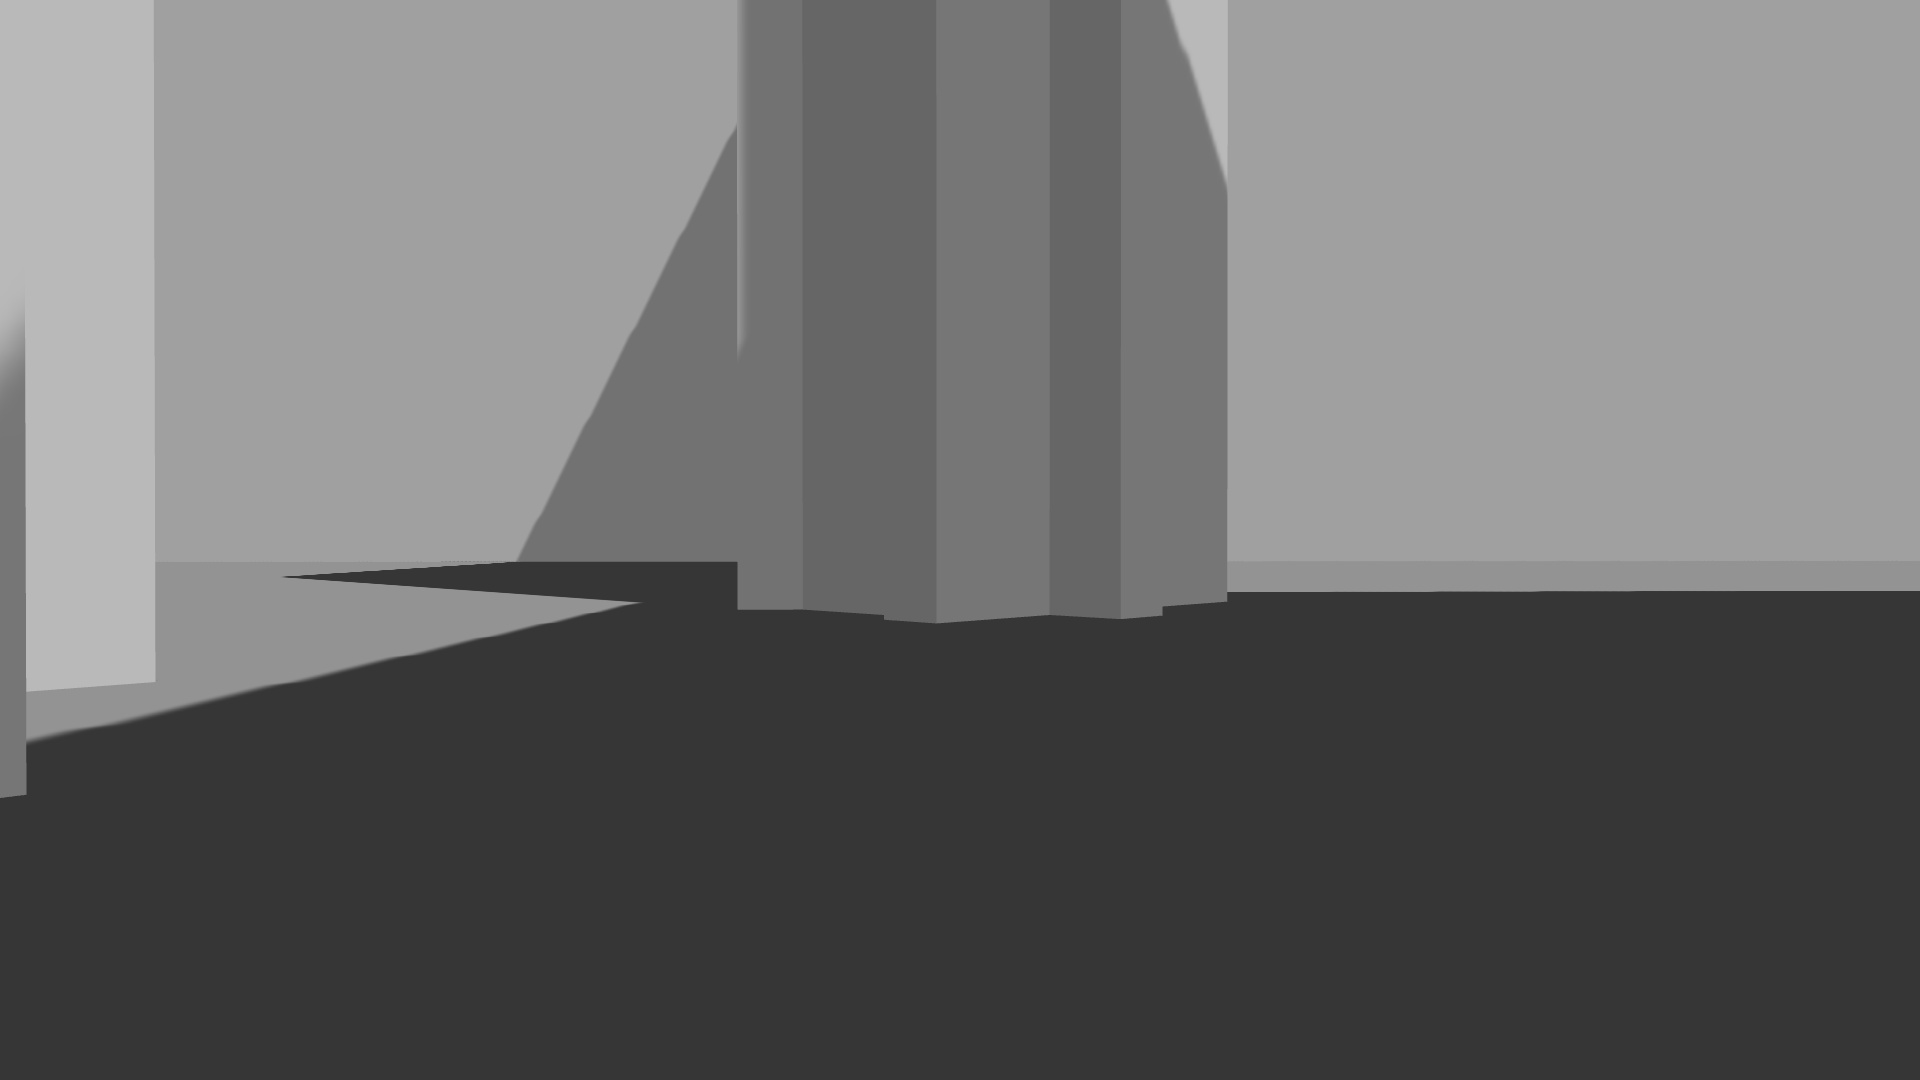
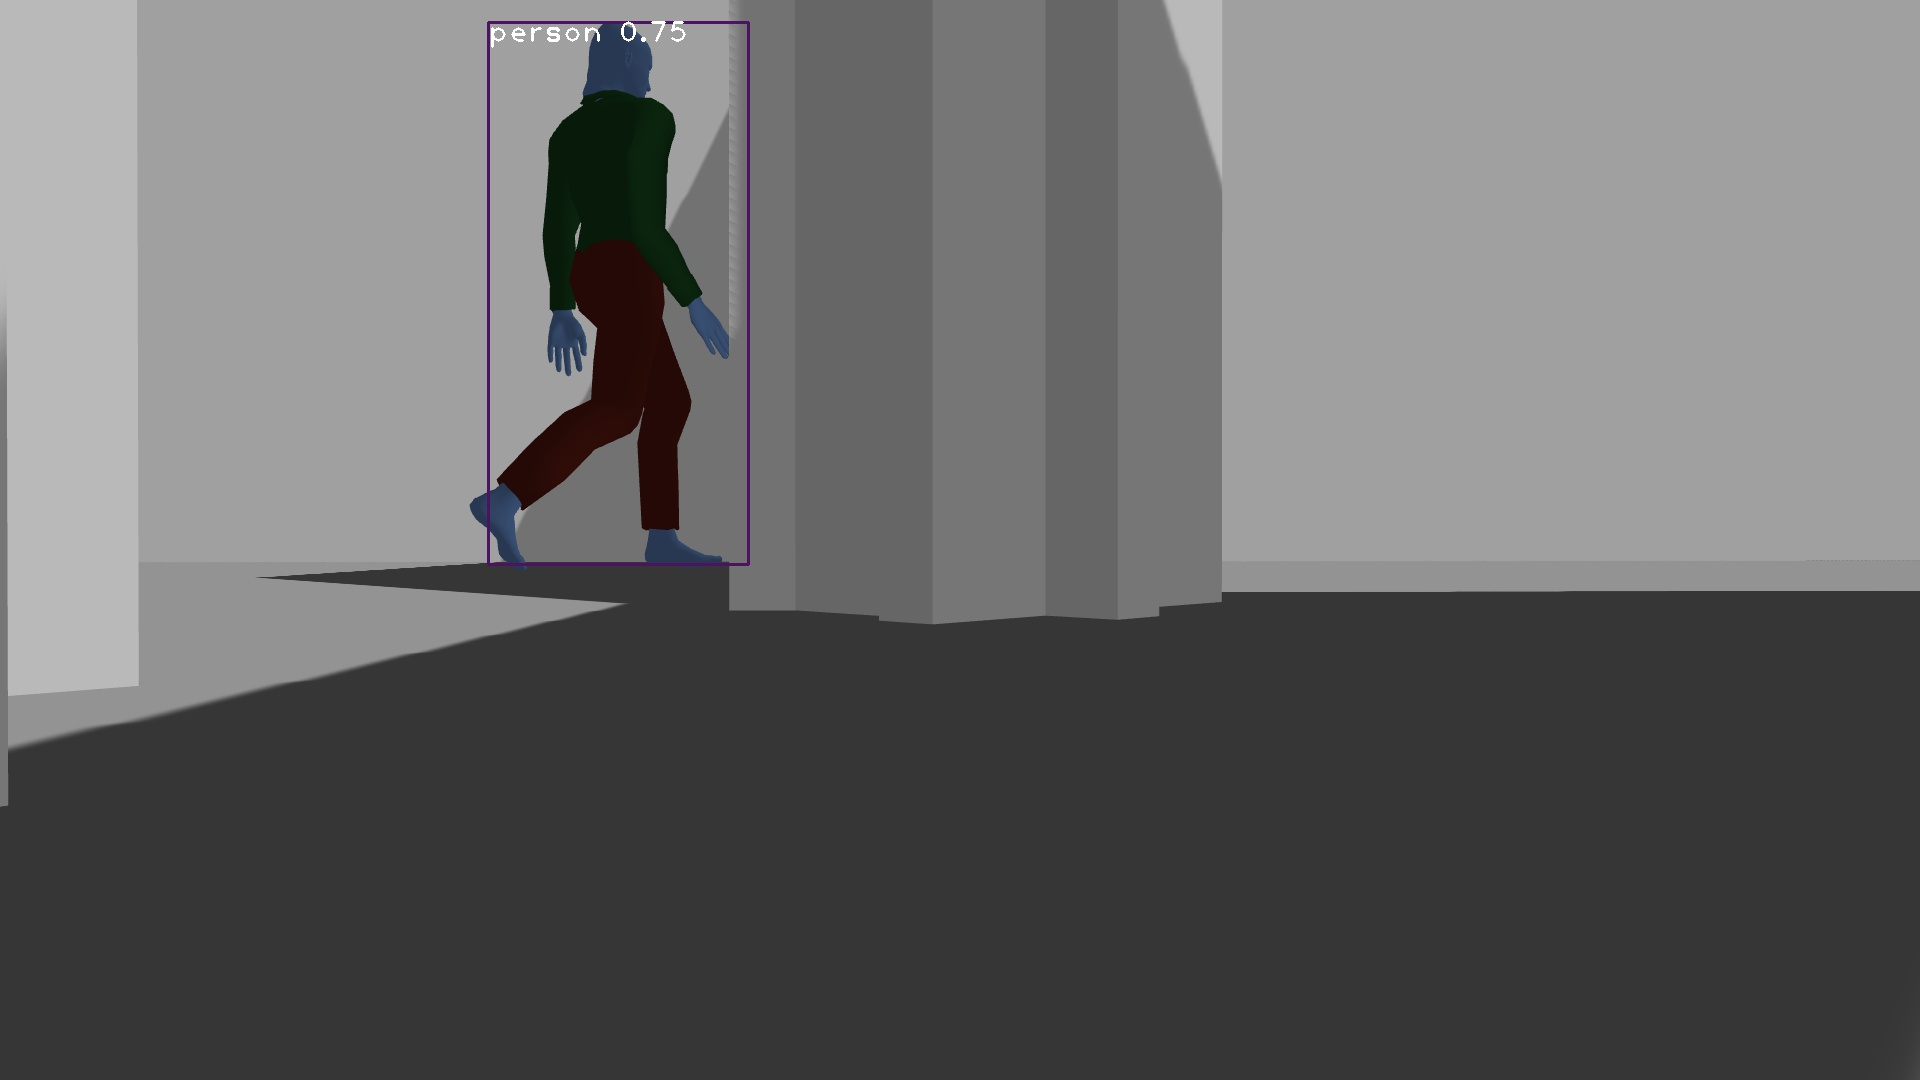
Latest Juman Detection publishes msg

diff --git a/test_catkin/src/testrobots/scripts/Human_Detection.py b/test_catkin/src/testrobots/scripts/Human_Detection.py
@@ -19,34 +19,42 @@ def yolo_processing(cv_img):
         and returns new image with detection and 
         human_flag which turns true if the human is detected
     '''
+    msg = H_detection()
+    msg.signal = -1
     yolo_output, object_label= Yolo.Yolo_imp(cv_img)
     output = bridge.cv2_to_imgmsg(yolo_output)
-    human_flag = 0
     
-    if(object_label == 'person'): human_flag = 1    
     '''
     Add a custom msg called Human Detected -
     It is published if a human is detected 
     '''
-    msg = H_detection
-    if human_flag ==  1:
-        rospy.loginfo_once("Human Detected on Camera")
+    if(object_label == 'person'):
+        rospy.logwarn("Human Detected on Camera")
         msg.signal = 1 
-        msg_pub.publish(msg)
-
-    pub.publish(output)
         
+    rospy.logwarn(msg.signal)
+    
+    #publish the message and the image
+    msg_pub.publish(msg)
+    pub.publish(output)
+    
         
 def image_callback(data):
     # print("here in callbaack")
     cv_img =  bridge.imgmsg_to_cv2(data)
     yolo_processing(cv_img)
 
+def DepthCamSub(data):
+    depth_cv_img =  bridge.imgmsg_to_cv2(data)
+    
+
+
 def main():
     rospy.init_node('Human_Detection', anonymous=False)
-    print("in main")
+    
     ### Depth Camera Input Subscribers
     rospy.Subscriber("/camera/rgb/image_raw", Image, image_callback,queue_size=10)
+    rospy.Subscriber("/camera/depth/image_raw", Image, DepthCamSub)
     while not rospy.is_shutdown():
         rospy.spin()
 if __name__ == "__main__":
